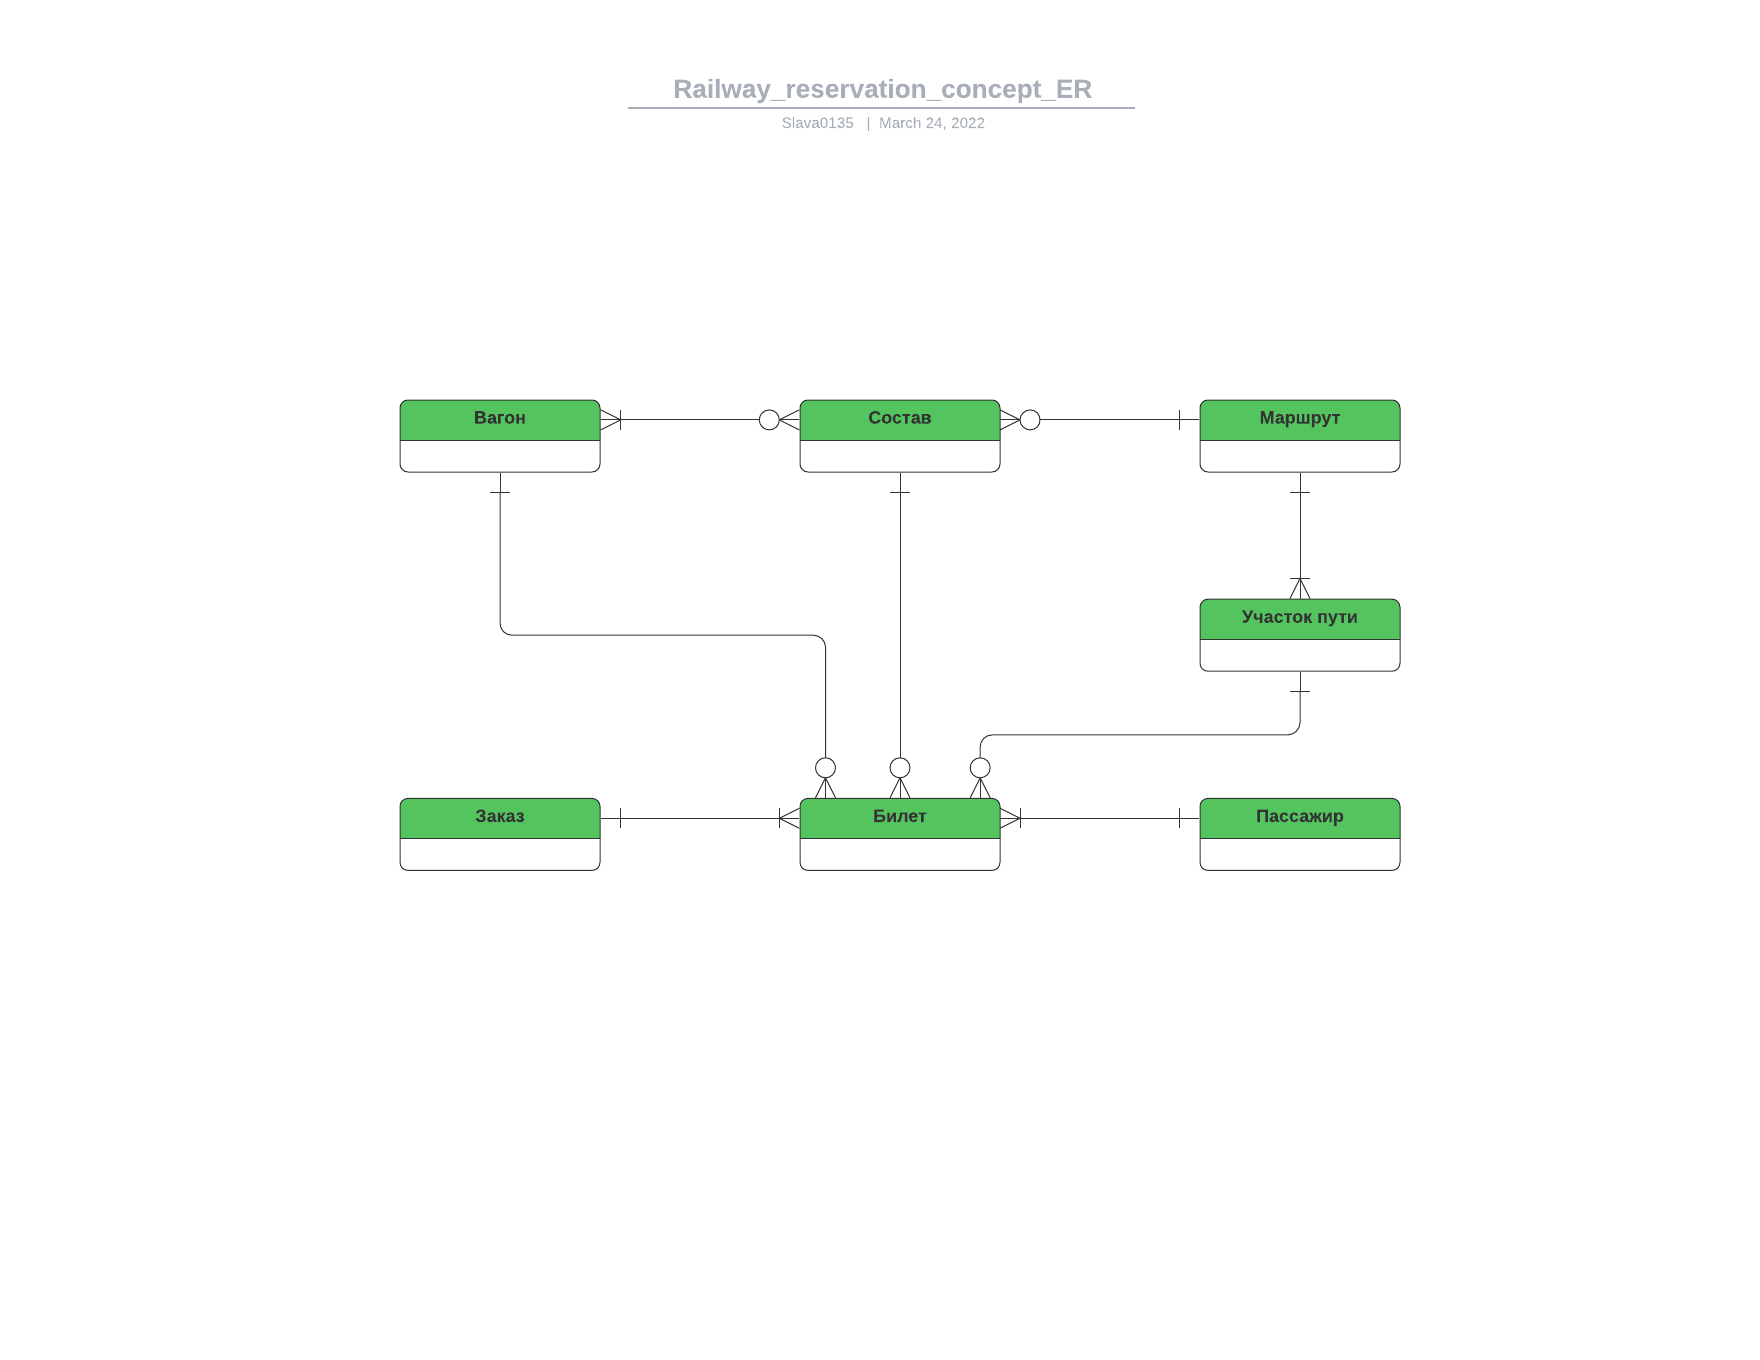
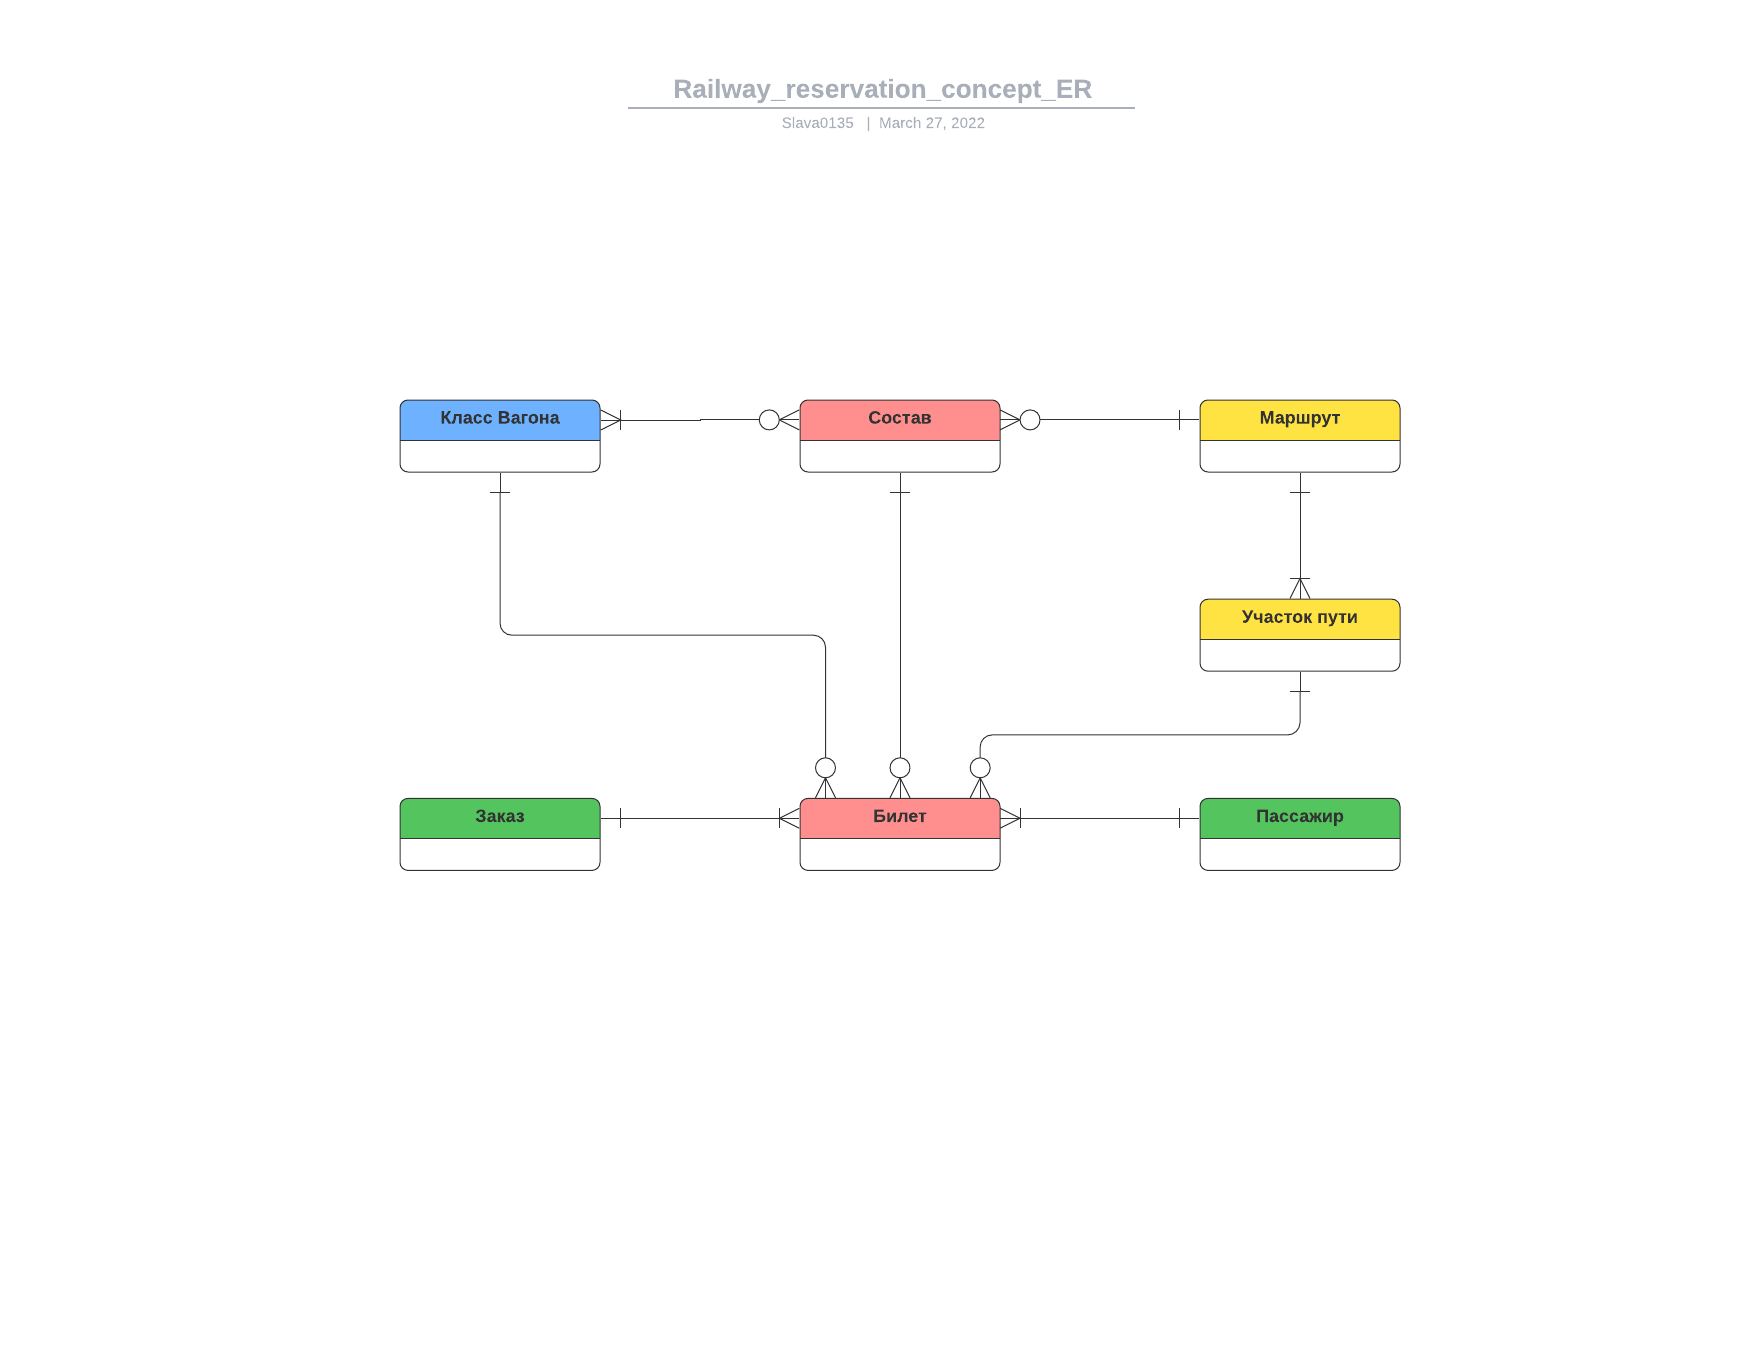
Исправления схем и корректировка описания

diff --git a/lab1.md b/lab1.md
@@ -18,12 +18,12 @@
 В качестве предметной области я выбрал Железнодорожную Систему Бронирования, где необходимо хранить следующие данные:
 
 * Список составов (номер маршрута, день отправления, количество и типы вагонов).
-* Типы вагонов - люкс/купе/плацкарт/сидячий (количество мест, множитель стоимости)
+* Классы вагонов - люкс/купе/плацкарт/сидячий (количество мест, множитель стоимости)
 * Список маршрутов (номер, начальная станция, конечная станция).
-* Список участков пути (номер маршрута, текущая станция и время отправления, следующая станция и время прибытия, стоимость на место).
+* Список участков пути (номер маршрута, текущая станция и время отправления, следующая станция и время прибытия, стоимость на место за этот участок).
 * Список заказов (дата оформления, билеты, контакты заказа - электронная почта и номер телефона).
   * Один человек может оформить билеты на нескольких пассажиров.
-* Список билетов (номер состава/маршрута, данные пассажира, станция и время назначения/отправления, тип и номер вагона, посадочное место, номер заказа, стоимость билета).
+* Список билетов (номер состава/маршрута, данные пассажира, станция и время назначения/отправления, класс и номер вагона, посадочное место, номер заказа, стоимость билета).
 * Данные пассажиров (ФИО, пол, номер документа, номер телефона).
   * На одного пассажира может быть оформлено несколько билетов (можно выкупить несколько мест для удобства).
 
@@ -37,4 +37,4 @@
 
 ## Выводы
 
-В ходе выполнения данной лабораторной работы я научился строить схему БД в соответствии с заданием.
+В ходе выполнения данной лабораторной работы я познакомился с основами проектирования схемы БД через построение собственной схемы для поставленной задачи.
